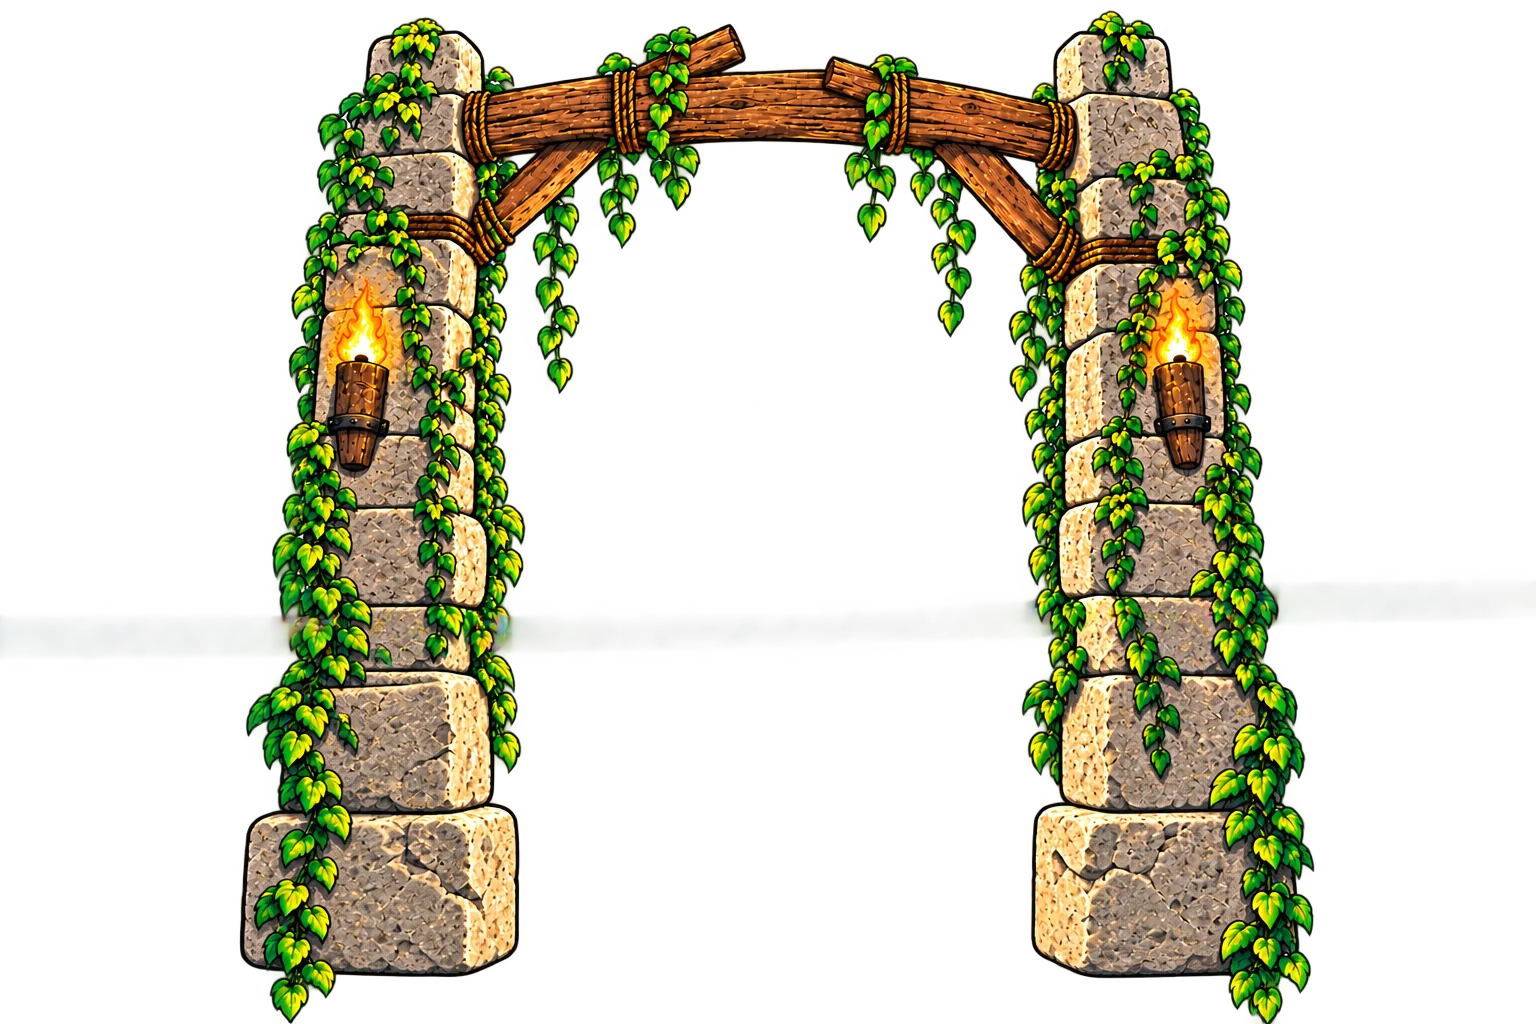
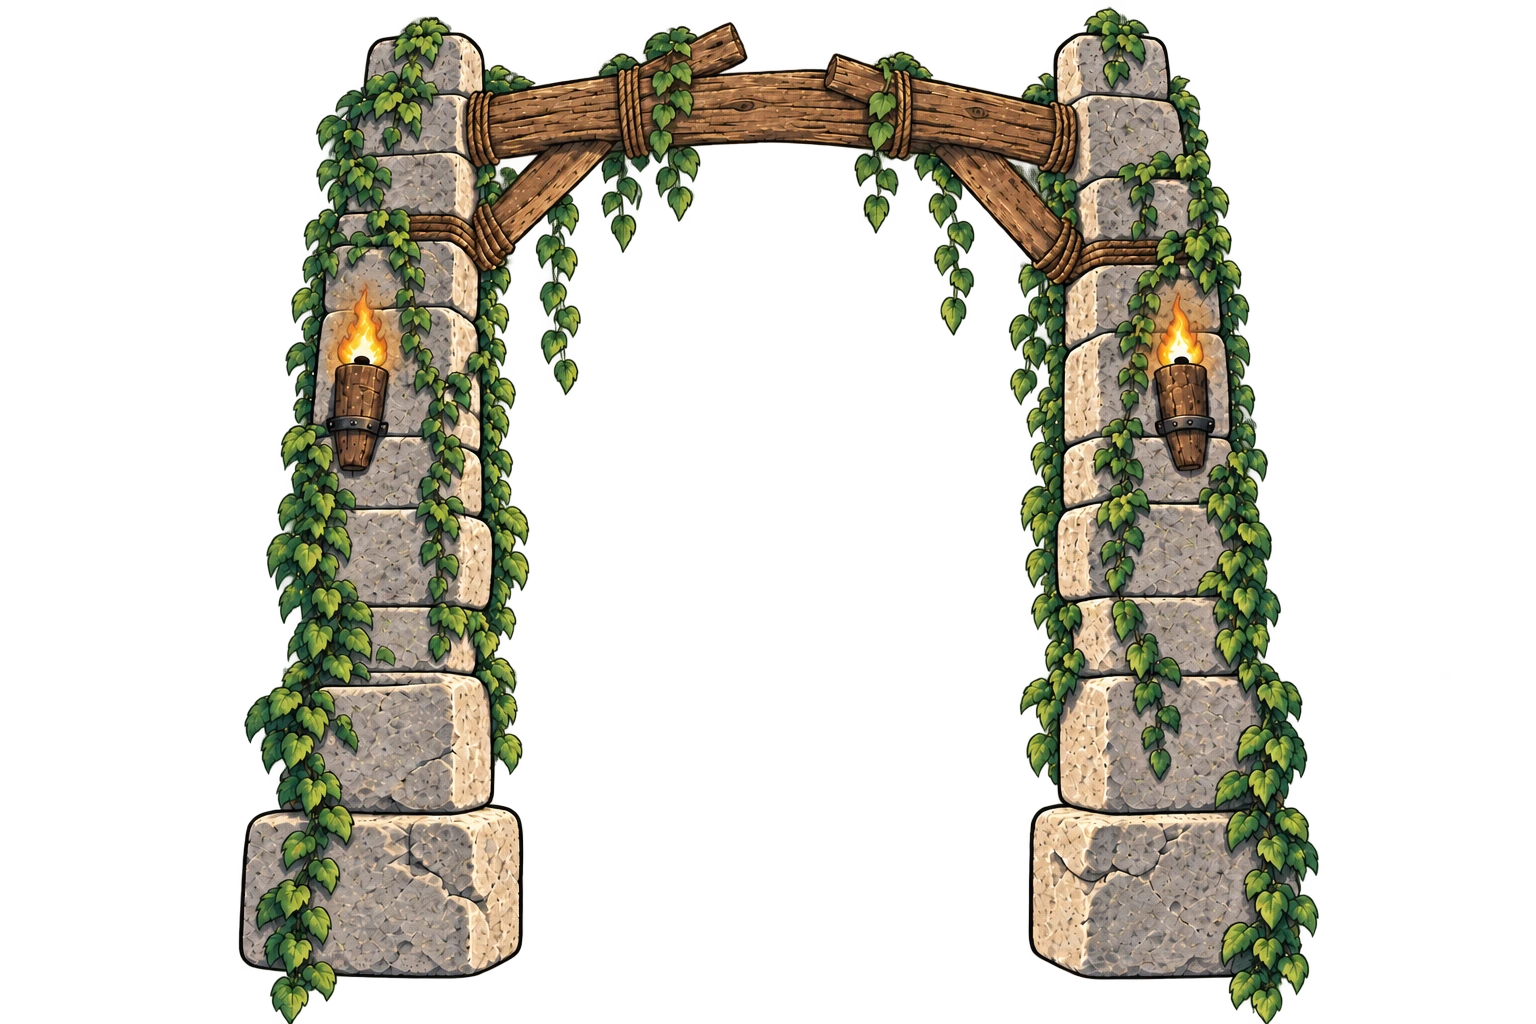
feat(adjust): inner-layout controls for composite slots; make Text Size real in T13
Text Size wasn't useless — it drives `--slot-text-scale`, which the shared slots.module.css
multiplies into every font size. T13 ships its own DinoSlots.module.css with plain `font:`
declarations that never read it, so the slider did nothing on Party Details (and on every other
T13 block). Fixed there rather than removing the control.

New per-slot fields, in OVERRIDABLE and surfaced in the Layout tab beside Text Size:
- contentGap    → --slot-gap (em, so it tracks Text Size)
- contentAlignY → --slot-justify (top / centre / bottom)
- contentAlign  → --slot-align + --slot-text-align (left / centre / right)

Read by .eventHero and .heroInner (shared) and .composite (T13), each falling back to the
shipped look so an untouched block is unchanged. Also gave the Depth slider a tooltip
explaining it's the parallax factor.

Verified on T13's Party Details: computed gap 0→18px, justify centre→flex-start, align
centre→flex-start, text-align centre→left, title 19.9px→29.8px at Text Size 1.5.

Changed region(s): [[0.1562, 0.0, 0.875, 1.0]]

diff --git a/frontend/components/templates/Template13-dinodoodle/DinoSlots.module.css b/frontend/components/templates/Template13-dinodoodle/DinoSlots.module.css
@@ -1,47 +1,56 @@
+/* `--slot-*` are per-layer overrides from the Layout tab (slotLayerStyle.ts) — Gap, Vertical
+   position, Align — each falling back to this template's own shipped look. */
 .composite {
+  display: flex;
+  flex-direction: column;
+  align-items: var(--slot-align, center);
+  justify-content: var(--slot-justify, center);
+  gap: var(--slot-gap, 0);
+  min-height: 100%;
   width: 100%;
-  text-align: center;
+  text-align: var(--slot-text-align, center);
   color: #183f32;
   font-family: var(--slot-font-body), system-ui, sans-serif;
   text-wrap: balance;
 }
 
+/* Only when the couple hasn't set a Gap — otherwise the two would stack. */
 .composite > div { margin: 0.28rem 0; }
 .hero { color: #173d34; text-shadow: 0 1px rgba(255,255,255,.55); }
 .eyebrow, .age, .cue, .note, .detailLine, .copy, .fact { margin: 0; }
-.eyebrow { font: 800 clamp(.65rem, 2.3cqi, .92rem)/1.05 var(--slot-font-display); letter-spacing: .08em; text-transform: uppercase; }
-.heroTitle { margin: .1rem 0; font: 900 clamp(1rem, 4.2cqi, 1.7rem)/.98 var(--slot-font-display); text-transform: uppercase; }
-.honoree { margin: .08rem 0; color: #0f514d; font: 900 clamp(2.2rem, 10cqi, 4.2rem)/.82 var(--slot-font-display); letter-spacing: .025em; text-transform: uppercase; }
-.age { color: #6e281e; font: 900 clamp(.85rem, 3.2cqi, 1.25rem)/1 var(--slot-font-display); text-transform: uppercase; }
-.detailLine { font-size: clamp(.66rem, 2.15cqi, .88rem); font-weight: 800; letter-spacing: .02em; text-transform: uppercase; }
+.eyebrow { font: 800 calc(clamp(.65rem, 2.3cqi, .92rem) * var(--slot-text-scale, 1))/1.05 var(--slot-font-display); letter-spacing: .08em; text-transform: uppercase; }
+.heroTitle { margin: .1rem 0; font: 900 calc(clamp(1rem, 4.2cqi, 1.7rem) * var(--slot-text-scale, 1))/.98 var(--slot-font-display); text-transform: uppercase; }
+.honoree { margin: .08rem 0; color: #0f514d; font: 900 calc(clamp(2.2rem, 10cqi, 4.2rem) * var(--slot-text-scale, 1))/.82 var(--slot-font-display); letter-spacing: .025em; text-transform: uppercase; }
+.age { color: #6e281e; font: 900 calc(clamp(.85rem, 3.2cqi, 1.25rem) * var(--slot-text-scale, 1))/1 var(--slot-font-display); text-transform: uppercase; }
+.detailLine { font-size: calc(clamp(.66rem, 2.15cqi, .88rem) * var(--slot-text-scale, 1)); font-weight: 800; letter-spacing: .02em; text-transform: uppercase; }
 /* Type defaults on the wrapper, inherited by the children — see slots.module.css's .countdown. */
-.countdown { display: flex; justify-content: center; gap: clamp(.42rem, 2cqi, .85rem); margin: .55rem auto; font: 900 clamp(1rem, 4cqi, 1.55rem)/1 var(--slot-font-display); }
+.countdown { display: flex; justify-content: center; gap: clamp(.42rem, 2cqi, .85rem); margin: .55rem auto; font: 900 calc(clamp(1rem, 4cqi, 1.55rem) * var(--slot-text-scale, 1))/1 var(--slot-font-display); }
 .countUnit { display: grid; min-width: 3.4rem; aspect-ratio: 226 / 239; align-content: center; padding: .42rem .5rem .36rem; background: url('/templates/dino-doodle-party/props/countdown-stone-days.webp') center / contain no-repeat; }
 .countUnit strong { font: inherit; color: inherit; }
 .countUnit small { margin-top: .18rem; font-size: .34em; font-weight: 900; letter-spacing: .08em; text-transform: uppercase; color: inherit; }
-.cue { margin-top: .55rem; font-size: .58rem; font-weight: 900; letter-spacing: .12em; text-transform: uppercase; }
-.cue span { display: block; font-size: 1.1rem; line-height: .7; }
+.cue { margin-top: .55rem; font-size: calc(.58rem * var(--slot-text-scale, 1)); font-weight: 900; letter-spacing: .12em; text-transform: uppercase; }
+.cue span { display: block; font-size: calc(1.1rem * var(--slot-text-scale, 1)); line-height: .7; }
 
-.sectionTitle { margin: 0; color: #173f33; font: 900 clamp(1.45rem, 6.4cqi, 2.6rem)/.92 var(--slot-font-display); letter-spacing: .015em; text-transform: uppercase; text-shadow: 0 2px rgba(255,247,218,.8); }
-.copy { max-width: 31rem; margin-inline: auto; font-size: clamp(.78rem, 2.5cqi, 1rem); font-weight: 700; line-height: 1.4; }
+.sectionTitle { margin: 0; color: #173f33; font: 900 calc(clamp(1.45rem, 6.4cqi, 2.6rem) * var(--slot-text-scale, 1))/.92 var(--slot-font-display); letter-spacing: .015em; text-transform: uppercase; text-shadow: 0 2px rgba(255,247,218,.8); }
+.copy { max-width: 31rem; margin-inline: auto; font-size: calc(clamp(.78rem, 2.5cqi, 1rem) * var(--slot-text-scale, 1)); font-weight: 700; line-height: 1.4; }
 .details { padding: 1rem .35rem; }
 .factGrid { display: grid; grid-template-columns: repeat(3, minmax(0, 1fr)); gap: .5rem; margin: 1rem auto !important; max-width: 33rem; }
-.fact { display: grid; gap: .18rem; padding: .55rem .35rem; background: rgba(246,229,182,.82); border: 2px solid rgba(37,70,49,.5); border-radius: .55rem; font-size: clamp(.62rem, 2cqi, .84rem); font-weight: 800; }
-.fact small { color: #8b3d25; font-size: .52rem; font-weight: 900; letter-spacing: .09em; text-transform: uppercase; }
-.note { font-size: .65rem; font-weight: 900; letter-spacing: .08em; text-transform: uppercase; }
+.fact { display: grid; gap: .18rem; padding: .55rem .35rem; background: rgba(246,229,182,.82); border: 2px solid rgba(37,70,49,.5); border-radius: .55rem; font-size: calc(clamp(.62rem, 2cqi, .84rem) * var(--slot-text-scale, 1)); font-weight: 800; }
+.fact small { color: #8b3d25; font-size: calc(.52rem * var(--slot-text-scale, 1)); font-weight: 900; letter-spacing: .09em; text-transform: uppercase; }
+.note { font-size: calc(.65rem * var(--slot-text-scale, 1)); font-weight: 900; letter-spacing: .08em; text-transform: uppercase; }
 
 .itinerary { max-width: 31rem; margin-inline: auto; }
 .routeList { display: grid; gap: .62rem; margin: .85rem auto 0; padding: 0; list-style: none; }
 .routeList li { display: grid; grid-template-columns: minmax(4.2rem, .8fr) 1.5fr; align-items: center; gap: .75rem; padding: .45rem .7rem; background: rgba(245,225,174,.86); border: 2px solid rgba(49,57,31,.48); border-radius: .45rem; box-shadow: 0 .18rem 0 rgba(45,39,24,.18); text-align: left; }
-.routeList time { color: #8d3b25; font-size: .72rem; font-weight: 900; text-align: right; text-transform: uppercase; }
-.routeList strong { font: 900 clamp(.72rem, 2.4cqi, .95rem)/1.05 var(--slot-font-display); text-transform: uppercase; }
+.routeList time { color: #8d3b25; font-size: calc(.72rem * var(--slot-text-scale, 1)); font-weight: 900; text-align: right; text-transform: uppercase; }
+.routeList strong { font: 900 calc(clamp(.72rem, 2.4cqi, .95rem) * var(--slot-text-scale, 1))/1.05 var(--slot-font-display); text-transform: uppercase; }
 
 .actionSection { display: grid; justify-items: center; gap: .25rem; }
 .actionButton, .textButton { border: 0; cursor: pointer; font-family: var(--slot-font-display); font-weight: 900; text-transform: uppercase; }
 .actionButton { min-width: 12rem; margin-top: .45rem; padding: .78rem 1.25rem; color: #fff1c5; background: #9c3e25; border: 2px solid #4c271e; border-radius: .5rem; box-shadow: 0 .28rem 0 #4c271e, 0 .55rem 1.2rem rgba(22,48,33,.22); }
 .actionButton:hover { transform: translateY(-1px); }
 .textButton { padding: .25rem; color: #173f33; background: transparent; text-decoration: underline; text-underline-offset: .2rem; }
-.wishList { max-height: 9rem; margin-top: .45rem; overflow: auto; font-size: .78rem; }
+.wishList { max-height: 9rem; margin-top: .45rem; overflow: auto; font-size: calc(.78rem * var(--slot-text-scale, 1)); }
 .galleryWrap { margin-top: .4rem; }
 .galleryWrap > div > h3,
 .galleryWrap > div > p { display: none; }
@@ -50,7 +59,7 @@
 .photoBooth .copy { color: #f6e5b6; text-shadow: 0 2px #14382f, 0 0 .65rem rgba(8, 30, 24, .8); }
 
 @media (min-width: 800px) {
-  .composite { font-size: 1.08rem; }
+  .composite { font-size: calc(1.08rem * var(--slot-text-scale, 1)); }
   .countUnit { min-width: 4.2rem; }
 }
 

diff --git a/frontend/components/templates/_shared/adjust/AdjustPanel.tsx b/frontend/components/templates/_shared/adjust/AdjustPanel.tsx
@@ -165,13 +165,15 @@ const FIT_OPTIONS: ObjectFit[] = ['cover', 'contain', 'fill'];
 /** Sentinel selection for the synthetic background row. */
 const BG_ID = '__bg';
 
-function Slider({ label, value, min, max, step, onChange }: {
+function Slider({ label, value, min, max, step, onChange, title }: {
   label: string; value: number; min: number; max: number; step: number;
   onChange: (v: number) => void;
+  /** Hover text on the label, for a control whose name isn't self-explanatory (Depth). */
+  title?: string;
 }) {
   return (
     <div className={styles.control}>
-      <span>{label}</span>
+      <span title={title}>{label}</span>
       <input
         type="range" min={min} max={max} step={step} value={value}
         onChange={(e) => onChange(Number(e.target.value))}
@@ -1028,19 +1030,54 @@ export default function AdjustPanel({
                     </div>
                   )}
                   {hasSlotText && (
-                    <Slider
-                      label="Text Size"
-                      value={current.textScale ?? 1}
-                      min={0.7} max={1.8} step={0.05}
-                      onChange={set('textScale')}
-                    />
+                    <>
+                      <Slider
+                        label="Text Size"
+                        value={current.textScale ?? 1}
+                        min={0.7} max={1.8} step={0.05}
+                        onChange={set('textScale')}
+                      />
+                      {/* Inner layout of a block that stacks several pieces (a hero's eyebrow/
+                          title/name/date, a titled section). In `em`, so the spacing tracks Text
+                          Size instead of drifting apart as the type grows. */}
+                      <Slider
+                        label="Gap"
+                        value={current.contentGap ?? 0.3}
+                        min={0} max={2} step={0.05}
+                        onChange={set('contentGap')}
+                      />
+                      <div className={styles.control} style={{ gridTemplateColumns: '54px 1fr' }}>
+                        <span title="Where the block's content sits inside its box — the box itself doesn't move">Position</span>
+                        <select
+                          className={styles.select}
+                          value={current.contentAlignY ?? 'center'}
+                          onChange={(e) => patchLayer(current.id, { contentAlignY: e.target.value as Layer['contentAlignY'] })}
+                        >
+                          <option value="top">Top</option>
+                          <option value="center">Centre</option>
+                          <option value="bottom">Bottom</option>
+                        </select>
+                      </div>
+                      <div className={styles.control} style={{ gridTemplateColumns: '54px 1fr' }}>
+                        <span>Align</span>
+                        <select
+                          className={styles.select}
+                          value={current.contentAlign ?? 'center'}
+                          onChange={(e) => patchLayer(current.id, { contentAlign: e.target.value as Layer['contentAlign'] })}
+                        >
+                          <option value="left">Left</option>
+                          <option value="center">Centre</option>
+                          <option value="right">Right</option>
+                        </select>
+                      </div>
+                    </>
                   )}
                   {!isSheet && (
                     <Slider label="Opacity" value={current.opacity} min={0} max={1} step={0.05} onChange={set('opacity')} />
                   )}
 
                   {!isAnchor && !isSheet && (
-                    <Slider label="Depth" value={current.depth ?? current.z / 10} min={0} max={3} step={0.1} onChange={set('depth')} />
+                    <Slider label="Depth" value={current.depth ?? current.z / 10} min={0} max={3} step={0.1} onChange={set('depth')} title="Parallax: how far this layer drifts against the background as the guest scrolls. 0 = welded to the scene." />
                   )}
 
                   {/* Effect tuning, additional to (not instead of) the geometry above — see the

diff --git a/frontend/components/templates/_shared/types.ts b/frontend/components/templates/_shared/types.ts
@@ -179,6 +179,17 @@ export interface Layer {
   containerMinHeight?: number;
   /** kind 'slot' only. Inner padding of the rendered form/content container in px. */
   containerPadding?: number;
+  /** kind 'slot' only. Space between the block's own stacked pieces (title/prompt/button/…), in
+   *  `em` of the block's base size so it tracks Text Size. A composite slot reads it as
+   *  `--slot-gap`; a single-element slot has nothing to space and ignores it. */
+  contentGap?: number;
+  /** kind 'slot' only. Where the block's content sits inside its box vertically — the box itself
+   *  doesn't move, so this is how you park a hero's text at the top of its area without
+   *  re-dragging it. Reads as `--slot-justify` (a flex `justify-content`). */
+  contentAlignY?: 'top' | 'center' | 'bottom';
+  /** kind 'slot' only. Horizontal alignment of the block's own lines — `--slot-align` (flex
+   *  `align-items`) plus `--slot-text-align`. */
+  contentAlign?: 'left' | 'center' | 'right';
   /** Parallax factor. 0 = welded to the background. Defaults to z/10 when absent. */
   depth?: number;
 

diff --git a/frontend/components/templates/_shared/slots/slots.module.css b/frontend/components/templates/_shared/slots/slots.module.css
@@ -15,13 +15,16 @@
  * this to 0) — it's a purely additive neutral-theme choice.
  */
 
+/* `--slot-*` here come from the layer's own Layout tab (slotLayerStyle.ts): Gap, Vertical
+   position and Align. Each falls back to the shipped look, so an untouched block is unchanged. */
 .heroInner {
   display: flex;
   flex-direction: column;
-  align-items: center;
-  justify-content: center;
+  align-items: var(--slot-align, center);
+  justify-content: var(--slot-justify, center);
+  gap: var(--slot-gap, 0);
   height: 100%;
-  text-align: center;
+  text-align: var(--slot-text-align, center);
   background: radial-gradient(
     ellipse at center,
     var(--slot-hero-scrim-1, rgba(246, 245, 243, 0.88)) 0%,
@@ -111,11 +114,11 @@
 .eventHero {
   display: flex;
   flex-direction: column;
-  align-items: center;
-  justify-content: center;
+  align-items: var(--slot-align, center);
+  justify-content: var(--slot-justify, center);
   height: 100%;
-  text-align: center;
-  gap: 0.3em;
+  text-align: var(--slot-text-align, center);
+  gap: var(--slot-gap, 0.3em);
 }
 .heroEyebrow {
   margin: 0;

diff --git a/frontend/components/templates/_shared/slotLayerStyle.ts b/frontend/components/templates/_shared/slotLayerStyle.ts
@@ -34,5 +34,17 @@ export function slotLayerStyle(layer: Layer): CSSProperties & Record<string, str
     ...(layer.containerPadding !== undefined
       ? { '--slot-container-padding': `${layer.containerPadding}px` }
       : null),
+    // Composite blocks (a hero, a titled section) read these on their own flex column — see
+    // `.eventHero`/`.heroInner` in slots.module.css and `.composite` in a template's own slot CSS.
+    ...(layer.contentGap !== undefined ? { '--slot-gap': `${layer.contentGap}em` } : null),
+    ...(layer.contentAlignY
+      ? { '--slot-justify': layer.contentAlignY === 'top' ? 'flex-start' : layer.contentAlignY === 'bottom' ? 'flex-end' : 'center' }
+      : null),
+    ...(layer.contentAlign
+      ? {
+          '--slot-align': layer.contentAlign === 'left' ? 'flex-start' : layer.contentAlign === 'right' ? 'flex-end' : 'center',
+          '--slot-text-align': layer.contentAlign,
+        }
+      : null),
   };
 }

diff --git a/frontend/components/templates/_shared/layout.ts b/frontend/components/templates/_shared/layout.ts
@@ -13,7 +13,7 @@ export const layoutKey = (prefix: string, bp: Breakpoint, stage: StageId) =>
  *  resolved layers against each other. */
 export const OVERRIDABLE: (keyof Layer)[] = [
   'x', 'y', 'w', 'h', 's', 'z', 'order', 'chain', 'hidden', 'opacity', 'depth', 'textScale',
-  'accentColor', 'containerMinHeight', 'containerPadding',
+  'accentColor', 'containerMinHeight', 'containerPadding', 'contentGap', 'contentAlignY', 'contentAlign',
   'rotation', 'flipX', 'flipY', 'locked', 'overflowMode',
   'color', 'fill', 'fontSize', 'fontWeight', 'lineHeight', 'radius', 'text', 'src', 'shape', 'label',
   'anim', 'animDur', 'animOut', 'animOutDur',

diff --git a/CLAUDE.md b/CLAUDE.md
@@ -521,6 +521,18 @@ from a failed attempt would suddenly lose that layer on the next render.
   oversized absolute box is simply **clipped away**, which is exactly how the first attempt
   rendered nothing at all. A full `circle` ring is capped at 10 lines tall for the same reason and
   fits itself inside (`preserveAspectRatio`).
+- **A composite slot's inner layout is tunable** — `contentGap` / `contentAlignY` / `contentAlign`
+  on a `kind:'slot'` layer become `--slot-gap` / `--slot-justify` / `--slot-align` +
+  `--slot-text-align` (`slotLayerStyle.ts`), read by the block's own flex column (`.eventHero` and
+  `.heroInner` in `slots.module.css`, `.composite` in a template's own slot CSS). Gap is in `em`,
+  so spacing tracks Text Size instead of drifting apart as the type grows. **A new template's
+  composite container must read those vars** (each with the shipped value as its fallback) or the
+  Gap/Position/Align controls do nothing there.
+- **`--slot-text-scale` only works if the CSS multiplies by it.** T13 shipped its own
+  `DinoSlots.module.css` with plain `font:`/`font-size:` declarations, so the panel's Text Size
+  slider was a no-op for every T13 block — the control was real, the template just never read it.
+  Every font size in a template's slot CSS wants `calc(<size> * var(--slot-text-scale, 1))`, except
+  a child already sized in `em` of a scaled parent (that would compound).
 - **A sub-layer's Style tab only reaches text the *wrapper* owns.** `subLayerStyle` writes inline
   styles onto the piece's own element, so any child with its own `font`/`color`/`font-size` rule
   silently out-specifies the couple's choice — that's why the countdown's digits ignored the Style
